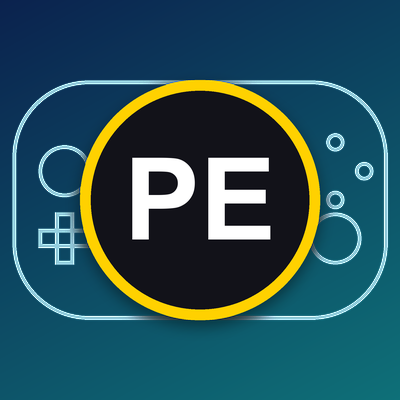
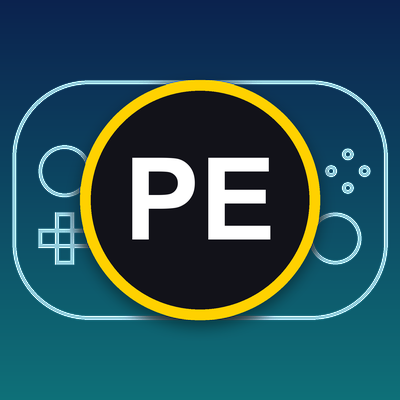
Make art palette a dict; fix face-button sliver and review minors

Changed region(s): [[0.81, 0.33, 0.96, 0.54], [0.9, 0.0, 1.0, 0.12], [0.0, 0.9, 0.12, 1.0]]

diff --git a/scripts/make_art.py b/scripts/make_art.py
@@ -4,17 +4,37 @@
 Run from anywhere: python3 scripts/make_art.py  -> writes curseforge/*.png
 """
 import os
-from PIL import Image, ImageDraw, ImageFont
+import argparse
+from PIL import Image, ImageDraw, ImageFilter, ImageFont
 
 ROOT = os.path.dirname(os.path.dirname(os.path.abspath(__file__)))
 OUT = os.path.join(ROOT, "curseforge")
 SS = 4  # supersampling factor
 
-GOLD = (255, 209, 0)       # Hub.lua ring (1.0, 0.82, 0)
-FILL = (18, 18, 25)        # Hub.lua fill (0.07, 0.07, 0.10)
-TOP = (11, 34, 78)         # deep blue
-BOT = (14, 112, 120)       # teal
-LINE = (150, 205, 225, 48) # subtle handheld line art
+PALETTES = {
+    # Current (owner has not picked yet): navy->teal, black disc, gold ring.
+    "current": dict(
+        bg_top=(11, 34, 78), bg_bottom=(14, 112, 120),
+        line=(150, 205, 225, 48), disc=(18, 18, 25), ring=(255, 209, 0),
+        letters=(255, 255, 255), title=(255, 255, 255),
+        tagline=(205, 232, 240), accent=(255, 209, 0)),
+    "A": dict(  # Deep teal mono
+        bg_top=(10, 74, 80), bg_bottom=(26, 150, 130),
+        line=(150, 240, 225, 60), disc=(6, 38, 44), ring=(170, 245, 222),
+        letters=(255, 255, 255), title=(255, 255, 255),
+        tagline=(200, 245, 235), accent=(170, 245, 222)),
+    "B": dict(  # Midnight ice
+        bg_top=(10, 20, 58), bg_bottom=(52, 50, 130),
+        line=(170, 205, 255, 60), disc=(6, 11, 36), ring=(160, 215, 255),
+        letters=(255, 255, 255), title=(255, 255, 255),
+        tagline=(200, 220, 255), accent=(160, 215, 255)),
+    "C": dict(  # Dusk ember
+        bg_top=(52, 18, 70), bg_bottom=(46, 44, 120),
+        line=(200, 180, 255, 62), disc=(28, 9, 38), ring=(255, 160, 90),
+        letters=(255, 244, 222), title=(255, 244, 222),
+        tagline=(214, 198, 245), accent=(255, 160, 90)),
+}
+DEFAULT = "current"
 
 FONT_PATH = "/System/Library/Fonts/Supplemental/Arial Bold.ttf"
 
@@ -26,83 +46,107 @@ def font(size):
         return ImageFont.load_default(size=size)
 
 
-def gradient(w, h):
-    """Diagonal blue -> teal gradient."""
-    g = Image.new("RGB", (w, h))
-    px = g.load()
-    for y in range(h):
-        for x in range(w):
-            t = (x / w * 0.35 + y / h * 0.65)
-            px[x, y] = tuple(round(TOP[i] + (BOT[i] - TOP[i]) * t) for i in range(3))
-    return g
+def gradient(w, h, top, bottom):
+    """Vertical top -> bottom gradient (fast: resize a 256-step ramp)."""
+    mask = Image.linear_gradient("L").resize((w, h), Image.BILINEAR)
+    return Image.composite(Image.new("RGB", (w, h), bottom),
+                           Image.new("RGB", (w, h), top), mask)
 
 
-def handheld(d, cx, cy, w, h, s):
-    """Low-contrast handheld outline: body, two sticks, d-pad, face buttons."""
+def handheld(d, cx, cy, w, h, s, disc_r, line):
+    """Low-contrast handheld outline: body, two sticks, d-pad, face buttons.
+
+    disc_r is the radius of the mark drawn over the centre; the face-button
+    cluster is pushed right until it clears the disc entirely.
+    """
     lw = max(2, round(s * 0.012))
     d.rounded_rectangle((cx - w / 2, cy - h / 2, cx + w / 2, cy + h / 2),
-                        radius=h * 0.32, outline=LINE, width=lw)
+                        radius=h * 0.32, outline=line, width=lw)
     r = h * 0.11
-    for sx in (-1, 1):  # sticks
+    for sx in (-1, 1):  # sticks: upper-left, lower-right
         x = cx + sx * w * 0.36
         y = cy - h * 0.12 if sx < 0 else cy + h * 0.16
-        d.ellipse((x - r, y - r, x + r, y + r), outline=LINE, width=lw)
-    # d-pad (right-hand side swaps: d-pad right, buttons left would clash; keep d-pad lower-left)
+        d.ellipse((x - r, y - r, x + r, y + r), outline=line, width=lw)
+    # d-pad (plus shape), lower left
     px, py, a = cx - w * 0.36, cy + h * 0.16, h * 0.11
     t = a * 0.38
-    d.rectangle((px - t, py - a, px + t, py + a), outline=LINE, width=lw)
-    d.rectangle((px - a, py - t, px + a, py + t), outline=LINE, width=lw)
-    # face buttons (diamond, upper right)
-    bx, by, o, br = cx + w * 0.36, cy - h * 0.12, h * 0.12, h * 0.04
+    d.rectangle((px - t, py - a, px + t, py + a), outline=line, width=lw)
+    d.rectangle((px - a, py - t, px + a, py + t), outline=line, width=lw)
+    # face buttons (diamond), upper right, fully clear of the disc
+    o, br = h * 0.07, h * 0.026
+    by = cy - h * 0.12
+    bx = max(cx + w * 0.36, cx + disc_r + s * 0.012 + o + br)
     for dx, dy in ((0, -o), (0, o), (-o, 0), (o, 0)):
         d.ellipse((bx + dx - br, by + dy - br, bx + dx + br, by + dy + br),
-                  outline=LINE, width=lw)
+                  outline=line, width=lw)
 
 
-def mark(img, cx, cy, radius, s):
-    """Dark disc, gold ring, white PE (with soft shadow)."""
+def mark(img, cx, cy, radius, pal):
+    """Dark disc, coloured ring, letters (with soft shadow)."""
     shadow = Image.new("RGBA", img.size, (0, 0, 0, 0))
     sd = ImageDraw.Draw(shadow)
     off = radius * 0.05
     sd.ellipse((cx - radius, cy - radius + off, cx + radius, cy + radius + off), fill=(0, 0, 0, 110))
-    from PIL import ImageFilter
     shadow = shadow.filter(ImageFilter.GaussianBlur(radius * 0.06))
     img.alpha_composite(shadow)
     d = ImageDraw.Draw(img)
-    d.ellipse((cx - radius, cy - radius, cx + radius, cy + radius), fill=FILL + (255,))
-    ring = radius * 0.09
-    d.ellipse((cx - radius, cy - radius, cx + radius, cy + radius), outline=GOLD + (255,), width=round(ring))
-    f = font(round(radius * 0.95))
-    d.text((cx, cy), "PE", font=f, fill=(255, 255, 255, 255), anchor="mm")
+    box = (cx - radius, cy - radius, cx + radius, cy + radius)
+    d.ellipse(box, fill=pal["disc"] + (255,))
+    d.ellipse(box, outline=pal["ring"] + (255,), width=round(radius * 0.09))
+    d.text((cx, cy), "PE", font=font(round(radius * 0.95)), fill=pal["letters"] + (255,), anchor="mm")
 
 
-def avatar():
+def avatar(pal):
     n = 400 * SS
-    img = gradient(n, n).convert("RGBA")
+    img = gradient(n, n, pal["bg_top"], pal["bg_bottom"]).convert("RGBA")
     d = ImageDraw.Draw(img, "RGBA")
-    handheld(d, n / 2, n / 2, n * 0.94, n * 0.60, n)
-    mark(img, n / 2, n / 2, n * 0.30, n)
+    handheld(d, n / 2, n / 2, n * 0.94, n * 0.60, n, n * 0.30, pal["line"])
+    mark(img, n / 2, n / 2, n * 0.30, pal)
     return img.resize((400, 400), Image.LANCZOS).convert("RGB")
 
 
-def banner():
+def banner(pal):
     w, h = 1280 * SS, 640 * SS
-    img = gradient(w, h).convert("RGBA")
+    img = gradient(w, h, pal["bg_top"], pal["bg_bottom"]).convert("RGBA")
     d = ImageDraw.Draw(img, "RGBA")
-    handheld(d, w * 0.27, h * 0.5, w * 0.42, h * 0.62, h)
-    mark(img, w * 0.27, h * 0.5, h * 0.25, h)
+    handheld(d, w * 0.27, h * 0.5, w * 0.42, h * 0.62, h, h * 0.25, pal["line"])
+    mark(img, w * 0.27, h * 0.5, h * 0.25, pal)
     d = ImageDraw.Draw(img)
     x = w * 0.5
     d.text((x, h * 0.45), "Pocket Essentials", font=font(round(h * 0.10)),
-           fill=(255, 255, 255), anchor="ls")
-    d.rectangle((x, h * 0.50, x + w * 0.06, h * 0.50 + 5 * SS), fill=GOLD)
+           fill=pal["title"], anchor="ls")
+    d.rectangle((x, h * 0.50, x + w * 0.06, h * 0.50 + 5 * SS), fill=pal["accent"])
     d.text((x, h * 0.62), "Handheld helpers for WoW Forever", font=font(round(h * 0.056)),
-           fill=(205, 232, 240), anchor="ls")
+           fill=pal["tagline"], anchor="ls")
     return img.resize((1280, 640), Image.LANCZOS).convert("RGB")
 
 
+def contact_sheet(path):
+    """Every palette's avatar (400) + banner (640x320), labelled, in one PNG."""
+    names = list(PALETTES)
+    rowh, pad = 400, 24
+    sheet = Image.new("RGB", (130 + 400 + pad + 800 + pad, len(names) * (rowh + pad) + pad), (235, 235, 235))
+    d = ImageDraw.Draw(sheet)
+    for i, name in enumerate(names):
+        y = pad + i * (rowh + pad)
+        pal = PALETTES[name]
+        d.text((pad, y + 40), name, font=font(30), fill=(30, 30, 30), anchor="lm")
+        sheet.paste(avatar(pal), (130, y))
+        sheet.paste(banner(pal).resize((800, 400), Image.LANCZOS), (130 + 400 + pad, y))
+        sheet.paste(avatar(pal).resize((64, 64), Image.LANCZOS), (pad, y + 80))
+    sheet.save(path)
+
+
 if __name__ == "__main__":
-    os.makedirs(OUT, exist_ok=True)
-    avatar().save(os.path.join(OUT, "avatar.png"), optimize=True)
-    banner().save(os.path.join(OUT, "banner.png"), optimize=True)
-    print("wrote", OUT)
+    ap = argparse.ArgumentParser()
+    ap.add_argument("--palette", default=DEFAULT, choices=list(PALETTES))
+    ap.add_argument("--out", default=OUT)
+    ap.add_argument("--contact-sheet", metavar="PNG")
+    args = ap.parse_args()
+    if args.contact_sheet:
+        contact_sheet(args.contact_sheet)
+    else:
+        os.makedirs(args.out, exist_ok=True)
+        avatar(PALETTES[args.palette]).save(os.path.join(args.out, "avatar.png"), optimize=True)
+        banner(PALETTES[args.palette]).save(os.path.join(args.out, "banner.png"), optimize=True)
+        print("wrote", args.out)
